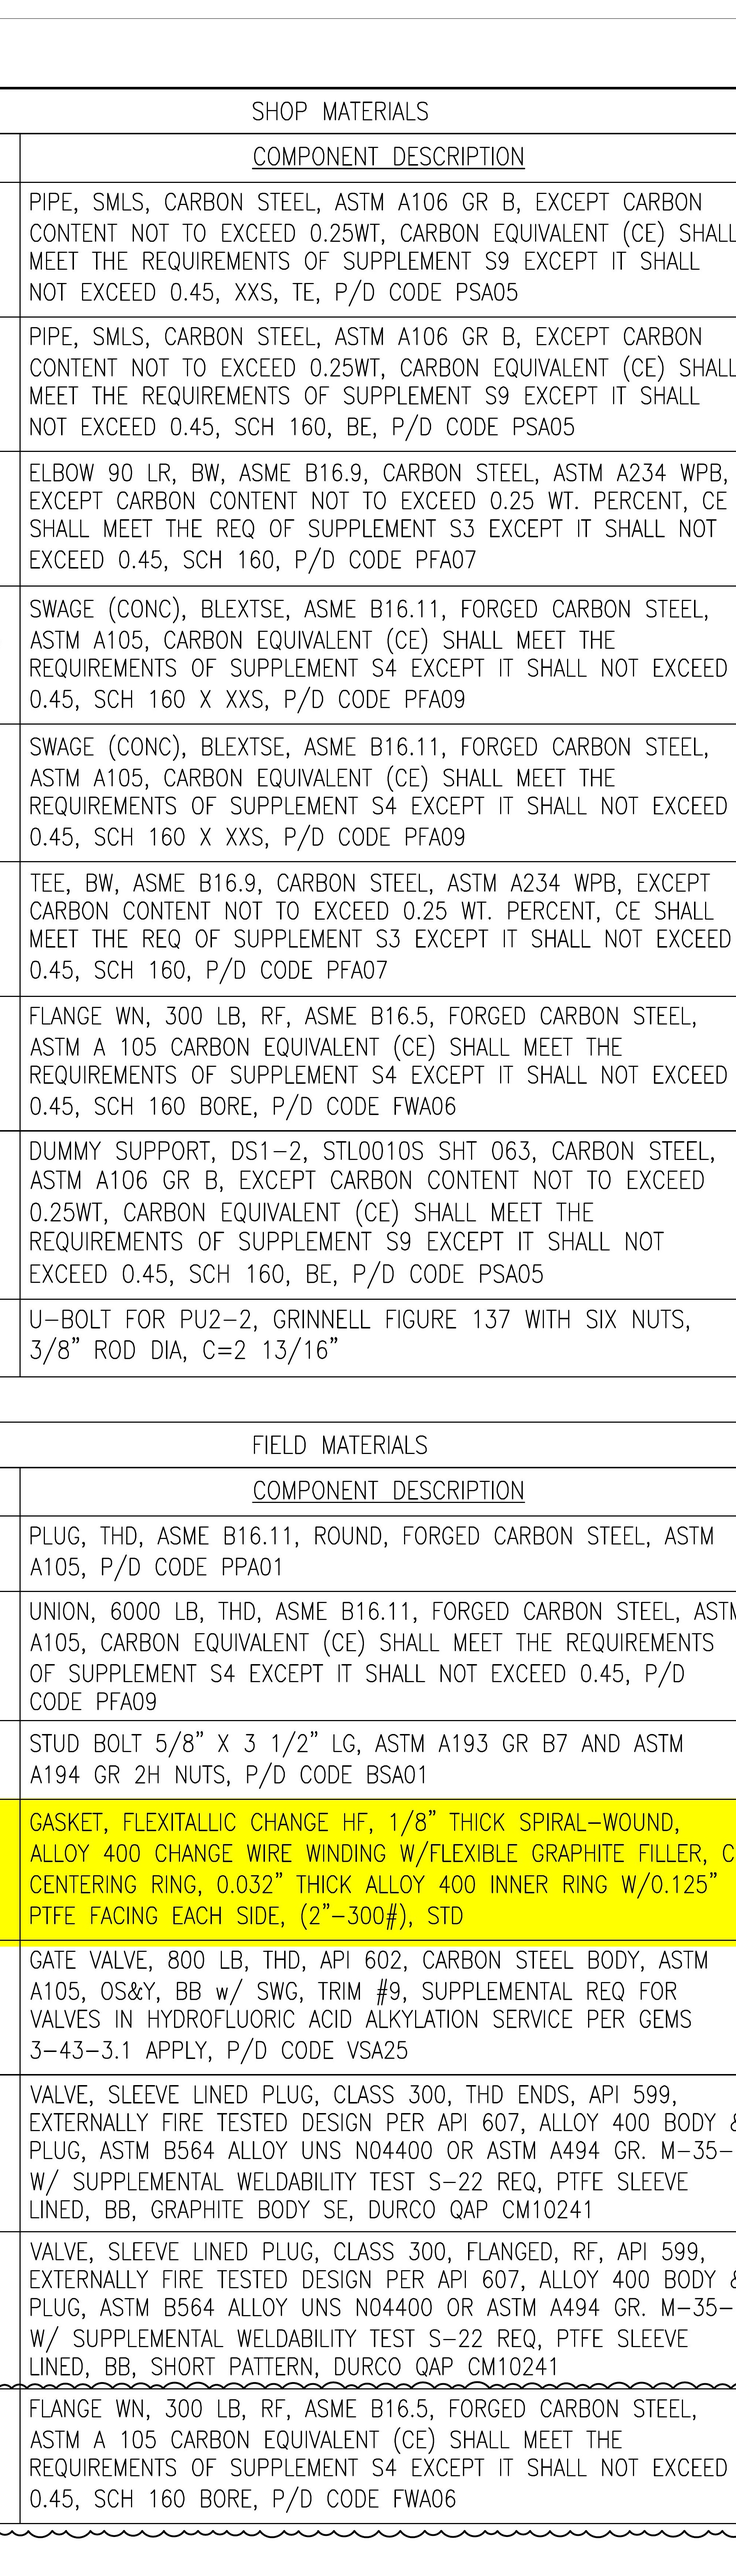
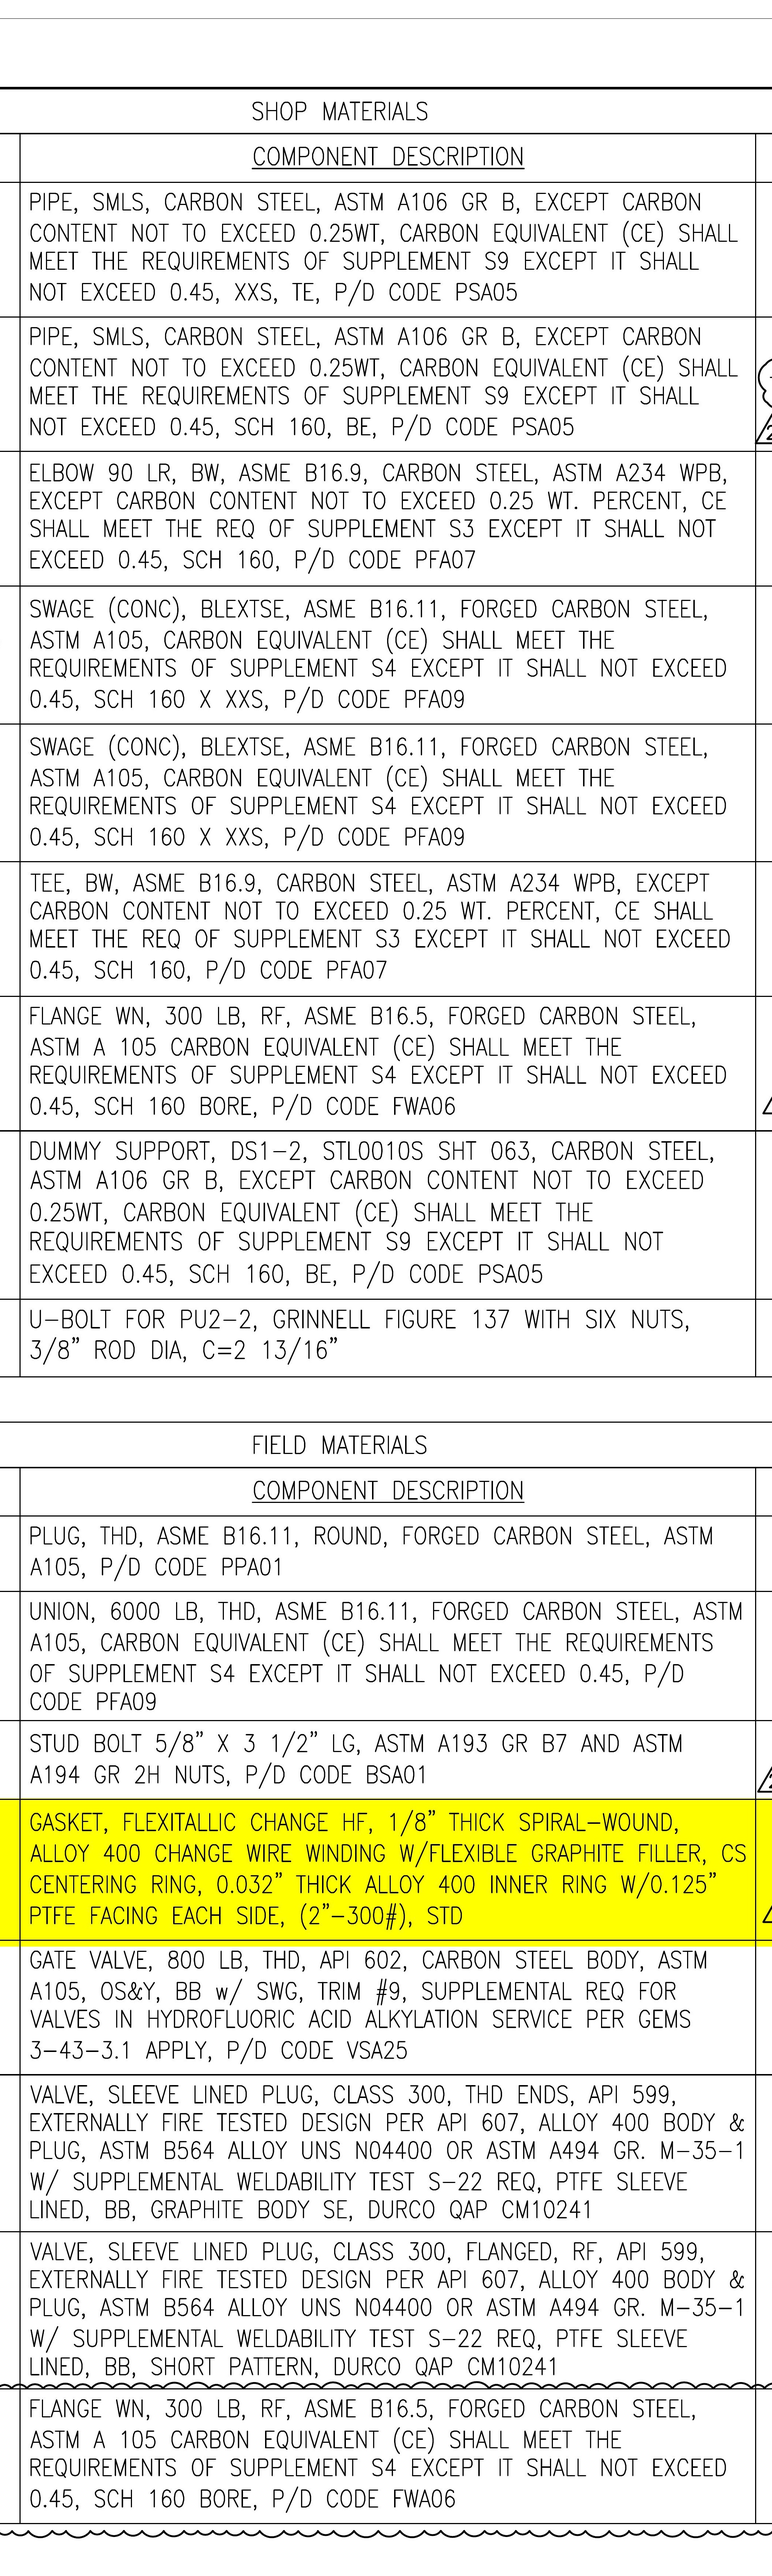
description code modified 4-1

diff --git a/ocr_table.py b/ocr_table.py
@@ -80,6 +80,12 @@ def ocr_table(file):
             cell = thresh[y:y+h, x:x+w]
             cell = cell[10:-10, 10:-10]
             cells.append(cell)
+        elif (file == "./cropped/upload.pdf\crop1_0.jpg" and ((w>1500 and w<2200) and (h>200 and h<500))):
+            k+=1
+            cv2.rectangle(im, (x, y), (x+w, y+h), (0, 0, 255), 3)
+            cell = thresh[y:y+h, x:x+w]
+            cell = cell[2:-2, 2:-2]
+            cells.append(cell)
         
     # print("cells----")
     ocr_text = []
@@ -90,8 +96,10 @@ def ocr_table(file):
         eroded_cell = cv2.erode(dilated_cell, kernel, iterations=1)
         if file == "./cropped/upload.pdf\crop2_1.jpg":
             image = dilated_cell
-        else:
+        elif file == "./cropped/upload.pdf\crop4_3.jpg":
             image = eroded_cell
+        elif file == "./cropped/upload.pdf\crop1_0.jpg":
+            image = cell
 
         # cv2.imwrite("aaa/aaa"+str(j)+".bmp", eroded_cell)
         j+=1        # text = pytesseract.image_to_string(dilated_cell, config='--oem 3 --psm 6')

diff --git a/ocr.py b/ocr.py
@@ -29,7 +29,8 @@ def ocr_image(pdf_name):
         bgr_image = cv2.imread(image)
         height, width, channels = bgr_image.shape
 
-        if height > 5000 and (image == "./cropped/upload.pdf\crop2_1.jpg" or image == "./cropped/upload.pdf\crop4_3.jpg"):
+        if height > 5000:
+        # if height > 5000 and (image == "./cropped/upload.pdf\crop2_1.jpg" or image == "./cropped/upload.pdf\crop4_3.jpg"):
             data = ocr_table(image)
             # pass
         else:
@@ -51,4 +52,4 @@ def ocr_image(pdf_name):
             
         image_counter = image_counter + 1
 
-# ocr_image("upload.pdf")
+ocr_image("upload.pdf")

diff --git a/cropping.py b/cropping.py
@@ -37,7 +37,7 @@ def crop_image(pdf_name):
                 if width > 9000:     
                         x = [9060, 8760, 10300, 11100]
                         y = [150, 150, 150, 150]
-                        w = [2000, 380, 610, 300]
+                        w = [2100, 380, 610, 300]
                         h = [7000, 7000, 7000, 7000]
                 else:
                         x = [6060, 7140, 7300, 7660]
